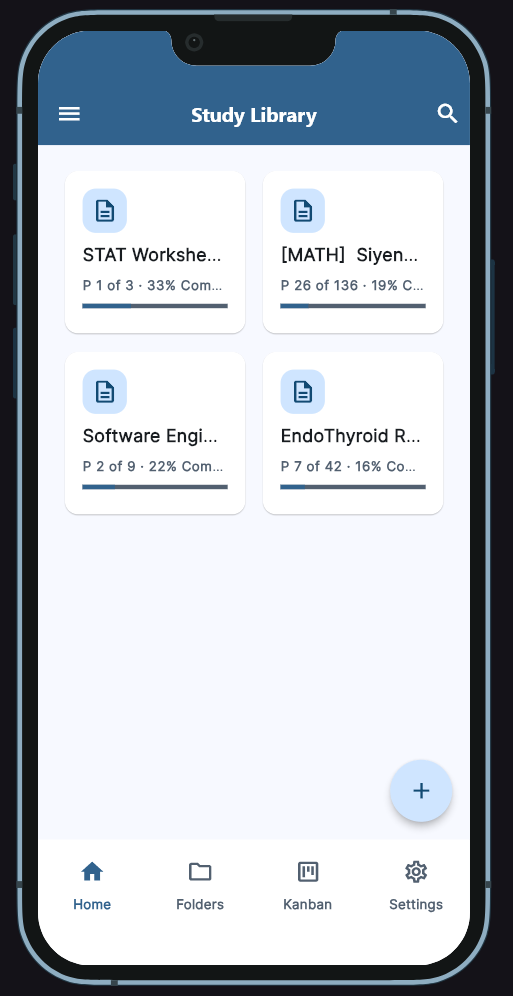
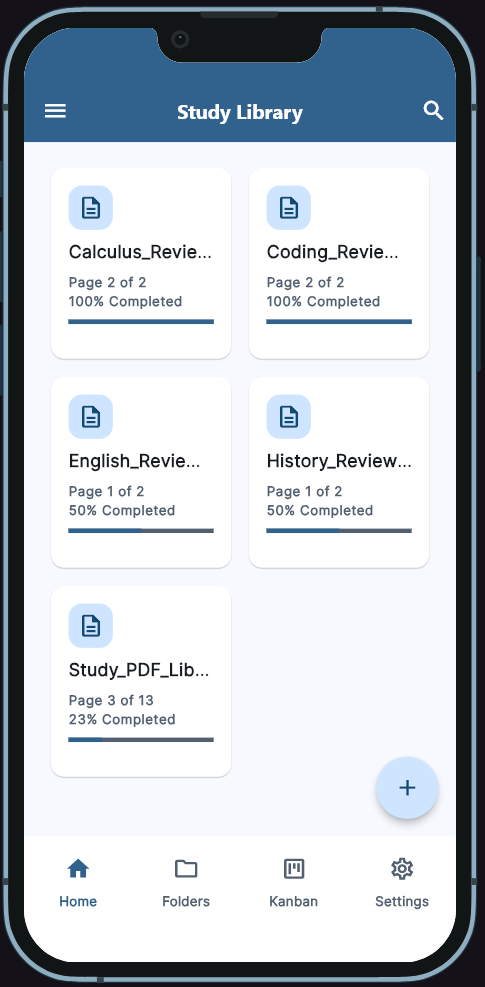
update readme

diff --git a/android/app/src/main/kotlin/com/example/final_project/MainActivity.kt b/android/app/src/main/kotlin/com/example/final_project/MainActivity.kt
@@ -1,0 +1,5 @@
+package com.example.final_project
+
+import io.flutter.embedding.android.FlutterActivity
+
+class MainActivity : FlutterActivity()

diff --git a/README.md b/README.md
@@ -113,9 +113,9 @@ lib/
 
 ## 6. Screenshots
 
-| Home Screen (Library) | PDF Viewer Screen |
+| Home Screen (Library) | PDF Viewer Screen | Folder Screen | Kanban Screen | Settings Screen
 | --- | --- |
-| ![Home Screen](docs/assets/home-screen.png) | ![PDF Viewer](docs/assets/pdf-viewer-screen.png) |
+| ![Home Screen](docs/assets/home-screen.png) | ![PDF Viewer](docs/assets/pdf-viewer-screen.png) | ![PDF Viewer](docs/assets/folder-screen.png) | ![PDF Viewer](docs/assets/kanban-screen.png) | ![PDF Viewer](docs/assets/settings-screen.png)
 
 ---
 
@@ -123,10 +123,11 @@ lib/
 
 - **Current Limitations:** 
   - Pdf can only view. No bookmarks and additional controls yet.
-  - Web testing doesn't work (may not go forward due to local database behaviours)
+  - Web testing doesn't work (may not go forward due to local database behaviors)
+
 - **Next Steps:**
-  - Fill out screen stubs.
-  - Add Bookmark, Kanban board, and Folder creations.
+  - Polish
+  - Fix bugs
 
 
 ---
